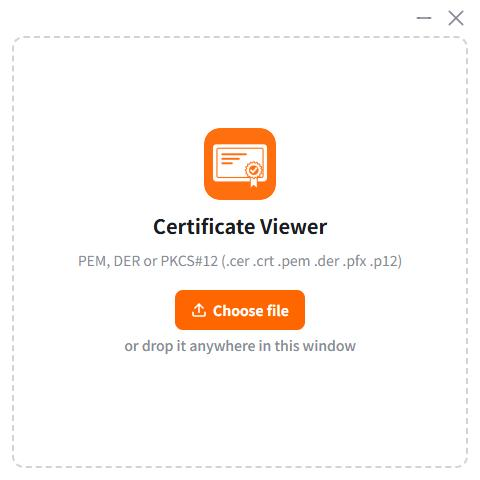
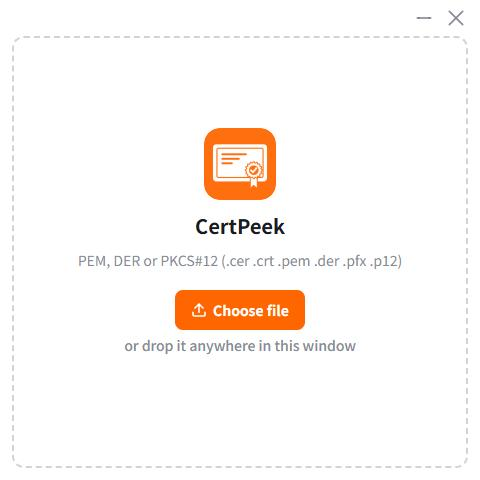
Rename product to CertPeek; bump to 0.2.0
productName, window title, in-app title, README (en/ko), release asset
names and the workflow copy patterns. The app identifier is unchanged so
existing installs upgrade in place.

Changed region(s): [[0.3125, 0.4375, 0.6875, 0.5]]

diff --git a/src/strings.ts b/src/strings.ts
@@ -3,7 +3,7 @@
 
 const en = {
   lang: "en",
-  appTitle: "Certificate Viewer",
+  appTitle: "CertPeek",
   formats: "PEM, DER or PKCS#12 (.cer .crt .pem .der .pfx .p12)",
   chooseFile: "Choose file",
   dropHint: "or drop it anywhere in this window",
@@ -30,7 +30,7 @@ const en = {
 
 const ko: typeof en = {
   lang: "ko",
-  appTitle: "인증서 뷰어",
+  appTitle: "CertPeek",
   formats: "PEM, DER 또는 PKCS#12 (.cer .crt .pem .der .pfx .p12)",
   chooseFile: "파일 선택",
   dropHint: "또는 창 어디에나 드래그해서 열기",

diff --git a/index.html b/index.html
@@ -3,7 +3,7 @@
   <head>
     <meta charset="UTF-8" />
     <meta name="viewport" content="width=device-width, initial-scale=1.0" />
-    <title>Certificate Viewer</title>
+    <title>CertPeek</title>
     <style>
       body { margin: 0; }
       /* Full-window drop target: Seed's dropzone box stretched to the window, dashed frame always visible. */

diff --git a/README.md b/README.md
@@ -2,11 +2,11 @@
 
 **English** · [한국어](docs/readme/README_ko.md)
 
-<img src="app-icon.svg" width="96" alt="Certificate Viewer" />
+<img src="app-icon.svg" width="96" alt="CertPeek" />
 
-# Certificate Viewer
+# CertPeek
 
-### View certificate files on Windows without installing them
+### Peek inside certificate files on Windows without installing them
 
 [![Tauri](https://img.shields.io/badge/Tauri-2-24C8D8?style=flat-square&logo=tauri&logoColor=white)](https://tauri.app)
 [![React](https://img.shields.io/badge/React-19-61DAFB?style=flat-square&logo=react&logoColor=black)](https://react.dev)
@@ -40,7 +40,7 @@
 
 Double-clicking a `.cer` or `.pfx` file on Windows opens the certificate **import** wizard. You only wanted to read it, but Windows first asks which store to install it into, and the fingerprint or SAN is a few tabs away.
 
-Certificate Viewer shows the details as soon as you drop the file onto the window. Since nothing is installed, you can freely open certificates from other people, expired ones, or ones you just want to inspect and throw away.
+CertPeek shows the details as soon as you drop the file onto the window. Since nothing is installed, you can freely open certificates from other people, expired ones, or ones you just want to inspect and throw away.
 
 ## Why
 
@@ -75,8 +75,8 @@ Windows 10 or later, 64-bit. Pick a language; the UI language is fixed per build
 
 | | Download |
 |---|---|
-| 🇺🇸 English | [CertificateViewer-en-x64-setup.exe](../../releases/latest/download/CertificateViewer-en-x64-setup.exe) |
-| 🇰🇷 한국어 | [CertificateViewer-ko-x64-setup.exe](../../releases/latest/download/CertificateViewer-ko-x64-setup.exe) |
+| 🇺🇸 English | [CertPeek-en-x64-setup.exe](../../releases/latest/download/CertPeek-en-x64-setup.exe) |
+| 🇰🇷 한국어 | [CertPeek-ko-x64-setup.exe](../../releases/latest/download/CertPeek-ko-x64-setup.exe) |
 
 All versions are on the [Releases](../../releases) page. Or build it yourself as described below.
 
